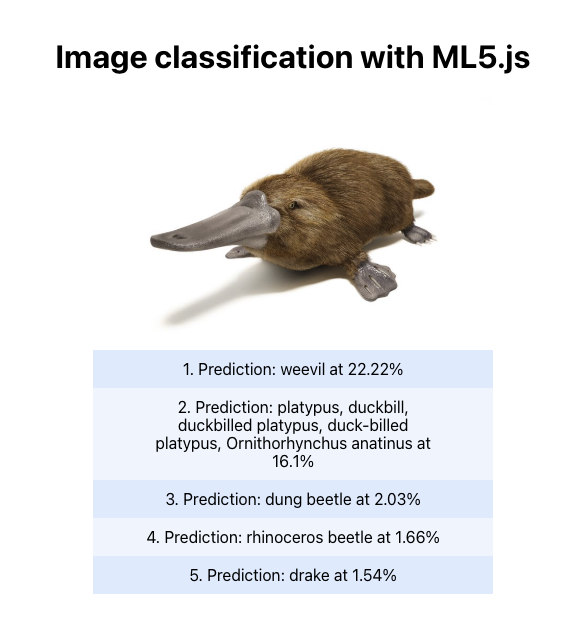
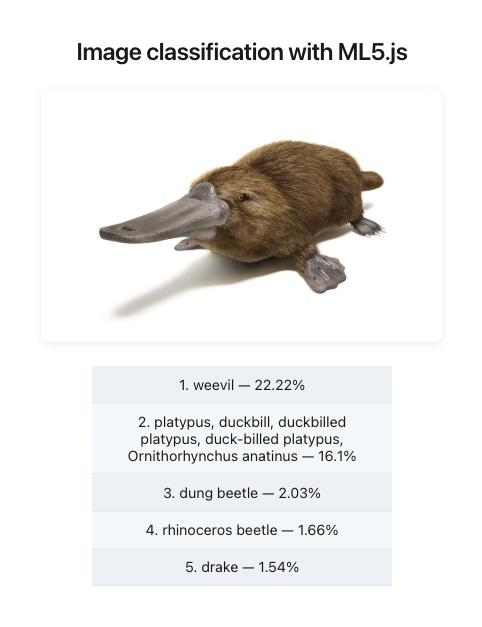
fix: convert to a typescript application

diff --git a/src/App.tsx b/src/App.tsx
@@ -1,0 +1,63 @@
+import { useState, useEffect, useRef } from 'react'
+import * as ml5 from 'ml5'
+import styles from './App.module.css'
+
+const TOP_K = 5
+
+interface Prediction {
+  label: string
+  confidence: number
+}
+
+function formatPercent(n: number): string {
+  return `${Math.floor(n * 10000) / 100}%`
+}
+
+export default function App() {
+  const [predictions, setPredictions] = useState<Prediction[]>([])
+  const [error, setError] = useState<string | null>(null)
+  const imgRef = useRef<HTMLImageElement>(null)
+
+  useEffect(() => {
+    const classify = async () => {
+      const image = imgRef.current
+      if (!image) return
+
+      try {
+        const classifier = await ml5.imageClassifier('MobileNet')
+        const results = await classifier.predict(image, TOP_K)
+        setPredictions(results)
+      } catch (err) {
+        setError(err instanceof Error ? err.message : 'Classification failed')
+      }
+    }
+
+    classify()
+  }, [])
+
+  return (
+    <main className={styles.app}>
+      <h1 className={styles.title}>Image classification with ML5.js</h1>
+      <img
+        ref={imgRef}
+        src="/assets/platypus.jpg"
+        width={400}
+        alt="Platypus"
+        className={styles.image}
+      />
+      {error ? (
+        <p className={styles.error}>{error}</p>
+      ) : predictions.length > 0 ? (
+        <ul className={styles.predictions}>
+          {predictions.map((pred, i) => (
+            <li key={`${pred.label}-${i}`} className={styles.item}>
+              {i + 1}. {pred.label} — {formatPercent(pred.confidence)}
+            </li>
+          ))}
+        </ul>
+      ) : (
+        <div className={styles.loader} aria-hidden="true" />
+      )}
+    </main>
+  )
+}

diff --git a/src/App.module.css b/src/App.module.css
@@ -1,0 +1,64 @@
+.app {
+  text-align: center;
+  padding: 1.5rem;
+  display: flex;
+  flex-direction: column;
+  justify-content: center;
+  align-items: center;
+  min-height: 100vh;
+  color: var(--color-text);
+}
+
+.title {
+  margin: 0 0 1.5rem;
+  font-size: 1.5rem;
+  font-weight: 600;
+  letter-spacing: -0.02em;
+}
+
+.image {
+  display: block;
+  margin-bottom: 1.5rem;
+  border-radius: 8px;
+  box-shadow: 0 2px 8px rgba(0, 0, 0, 0.08);
+}
+
+.error {
+  margin: 1rem 0;
+  color: #c00;
+  font-size: 0.9rem;
+}
+
+.predictions {
+  list-style: none;
+  margin: 0;
+  padding: 0;
+  width: 300px;
+}
+
+.item {
+  padding: 0.6rem 1rem;
+  background-color: #f5f8fa;
+  border-bottom: 1px solid #e8ecf0;
+  font-size: 0.9rem;
+}
+
+.item:nth-child(odd) {
+  background-color: #eef2f6;
+}
+
+.loader {
+  width: 50px;
+  height: 50px;
+  margin: 2rem;
+  border: 4px solid #e8ecf0;
+  border-bottom-color: var(--color-accent);
+  border-radius: 50%;
+  animation: loaderSpin 1s linear infinite;
+}
+
+@keyframes loaderSpin {
+  to {
+    transform: rotate(360deg);
+  }
+}

diff --git a/src/vite-env.d.ts b/src/vite-env.d.ts
@@ -1,0 +1,13 @@
+/// <reference types="vite/client" />
+
+declare module '*.module.css' {
+  const classes: { readonly [key: string]: string }
+  export default classes
+}
+
+declare module 'ml5' {
+  interface ImageClassifier {
+    predict(img: HTMLImageElement, topK?: number): Promise<Array<{ label: string; confidence: number }>>
+  }
+  export function imageClassifier(model: string): Promise<ImageClassifier>
+}

diff --git a/src/main.tsx b/src/main.tsx
@@ -3,7 +3,7 @@ import ReactDOM from 'react-dom/client'
 import App from './App'
 import './index.css'
 
-ReactDOM.createRoot(document.getElementById('root')).render(
+ReactDOM.createRoot(document.getElementById('root')!).render(
   <React.StrictMode>
     <App />
   </React.StrictMode>

diff --git a/index.html b/index.html
@@ -9,6 +9,6 @@
   </head>
   <body>
     <div id="root"></div>
-    <script type="module" src="/src/main.jsx"></script>
+    <script type="module" src="/src/main.tsx"></script>
   </body>
 </html>

diff --git a/src/index.css b/src/index.css
@@ -1,3 +1,8 @@
+:root {
+  --color-text: #1a1a1a;
+  --color-accent: #0066cc;
+}
+
 body {
   margin: 0;
   font-family: -apple-system, BlinkMacSystemFont, "Segoe UI", "Roboto", "Oxygen",
